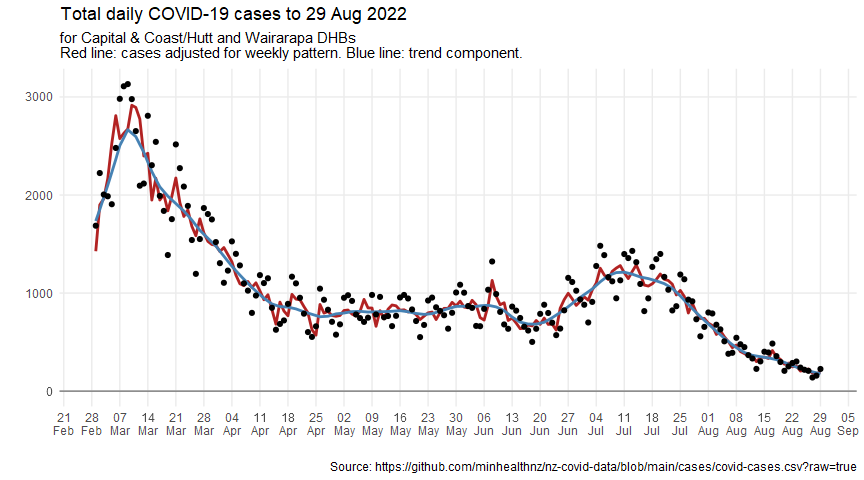
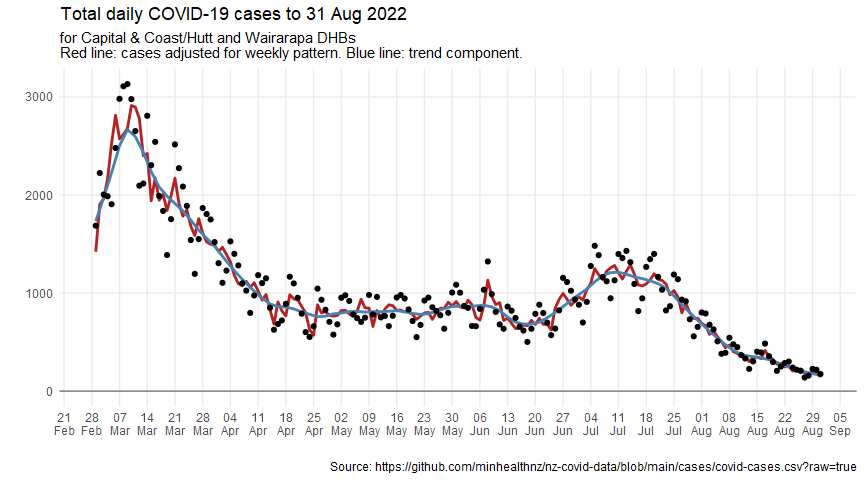
Update for 20220901

diff --git a/covid-post-peak-analysis.md b/covid-post-peak-analysis.md
@@ -34,7 +34,7 @@ cases_df <- read_csv(case_data_url) %>%
   clean_names()
 ```
 
-    ## Rows: 1738492 Columns: 7
+    ## Rows: 1743042 Columns: 7
     ## ── Column specification ────────────────────────────────────────────────────────
     ## Delimiter: ","
     ## chr  (5): Case Status, Sex, Age group, DHB, Overseas travel
@@ -51,7 +51,7 @@ cases_by_dhb_df <- cases_df %>%
   count(report_date, dhb, case_status)
 ```
 
-## Wellington figures up to 29 Aug 2022
+## Wellington figures up to 31 Aug 2022
 
 Including Hutt and Wairarapa as well as CCDHB.
 
@@ -174,8 +174,8 @@ maxima <- dhb_cases_after_transform_stl_df %>%
 Looking at raw case numbers, the peak on 9 Mar 2022 was about 22.5 times
 the lowest recent value.
 
-But when adjusting for the weekly pattern, it was 16.3 times the lowest
-recent adjusted value, and the trend was about 15 times the lowest
+But when adjusting for the weekly pattern, it was 19.6 times the lowest
+recent adjusted value, and the trend was about 16.5 times the lowest
 recent trend line.
 
 While the trend might be over-smoothed, the peak coincinded with the
